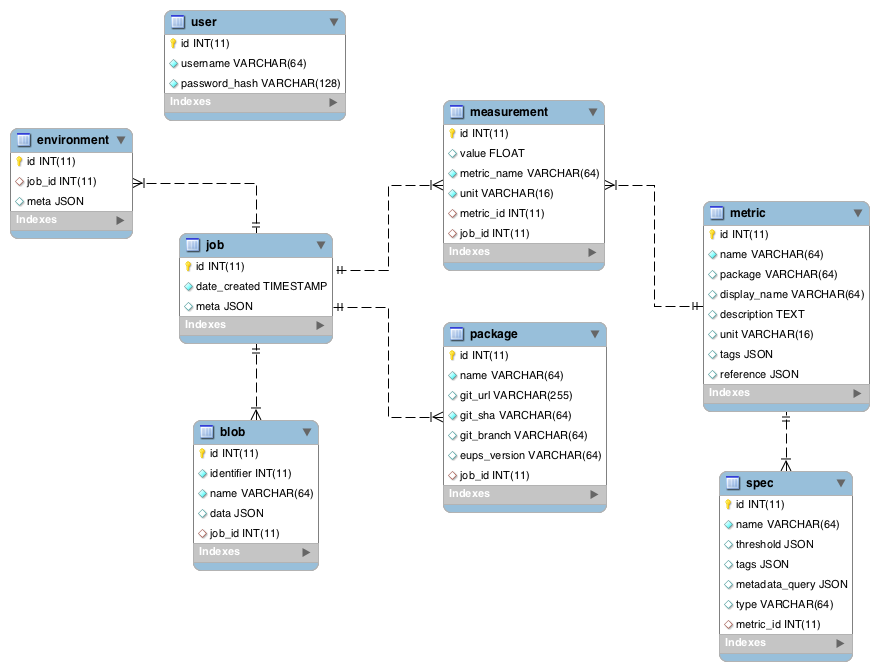
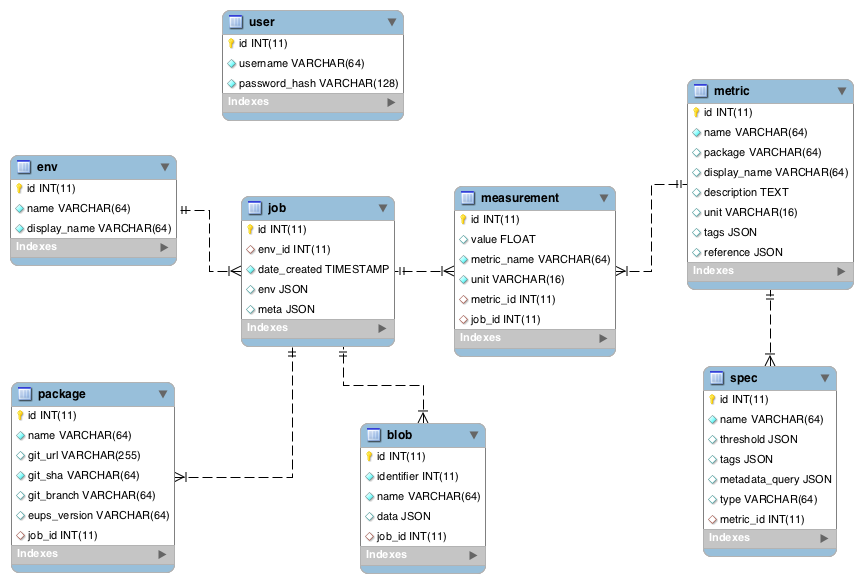
Updated discussion on multiple execution environments

Changed region(s): [[0.0, 0.0, 0.7231, 0.988], [0.7532, 0.1235, 0.9942, 0.988]]

diff --git a/index.rst b/index.rst
@@ -121,20 +121,26 @@ Appendix
 
 Support for multiple execution environments
 -------------------------------------------
-In order to be useful for the verification activities SQuaSH must support multiple execution enviroments like the Jenkins CI, the user local environment, the verification cluster and probably others. As a consequence, the information displayed will change depending on the execution environment.
+In order to be useful for the verification activities SQuaSH must support multiple execution enviroments like the Jenkins CI, the user local environment, the verification cluster environment and potentially other environments. As a consequence, the information displayed in the dashboard will change accordingly to the execution environment.
 
-In order to support multiple execution environments the *Verification Job* must map the corresponding environment attribute and keep environment metadata as suggested below:
+In order to support multiple execution environments, the environment metadata in a *verification job* must map the corresponding job as suggested below:
 
 
    * Jenkins CI
-      * Natural key: ID of the CI run
-      * Metadata: ``ci_name``, ``ci_dataset``, ``ci_label``, ``ci_url``, lsstsw and extra packages
+      * Look up key: ID of the CI run
+      * Environment metadata: ``ci_name``, ``ci_dataset``, ``ci_label``, ``ci_url``, lsstsw and extra packages
    * User local environment (imply support to multiple users)
-      * Natural Key: ID of the user run
-      * Metadata: lsstsw and extra packages
+      * Look up key: ID of the user run
+      * Environment metadata: lsstsw and extra packages
    * Verification Cluster
-      * Natural Key: ID of the vrification cluster run.
-      * Metadata: lsst stack build (assuming we are using stable versions of the stack only), here we'll probably need the ability to change/save the stack configuration used in each run.
+      * Look up key: ID of the verification cluster run.
+      * Environment metadata: lsst stack build (assuming we are using stable versions of the stack only)
+
+
+NOTE: for QC-1 we'll need the ability to save the input data and the stack configuration used in each run.
+
+
+The SQuaSH API provides a generic resource to interact with jobs, ``/jobs/<job_id>`` and specific resources to interact with runs on different environments that ultimately map to ``jobs``. For example a request to ``/jenkins/<ci_id>`` or ``/local/<username>/<run_id>`` will look up for the corresponding job to retrieve the associated measurements and metadata.
 
 
 The QC-0 database
@@ -143,9 +149,9 @@ The QC-0 database
 Current database schema for QC-0 with support to multiple execution enviroments.
 
    * Entities:
-      * ``evironment``, ``user``, ``job``, ``package``, ``blob``, ``measurement``, ``metric``, ``spec``
+      * ``env``, ``user``, ``job``, ``package``, ``blob``, ``measurement``, ``metric``, ``spec``
    * Relationships:
-      * ``1 job : 1 environment``
+      * ``1 env : N jobs``
       * ``1 job : N packages``
       * ``1 job : N blobs``
       * ``1 job : N measurements``
@@ -177,7 +183,7 @@ First install the `LSST Science Pipelines with lsstsw <https://pipelines.lsst.io
    setup verify
 
 
-Assuming you have an output of ``lsst.verify``, e.g. ``Cfht_output_r.json`` you can reproduce the JSON document created by dispatch verify (in different environments) using:
+Assuming you have an output of ``lsst.verify``, e.g. ``Cfht_output_r.json`` you can reproduce the JSON document created by ``dispatch_verify`` in the ``jenkins`` environment using:
 
 
 .. code-block:: bash
